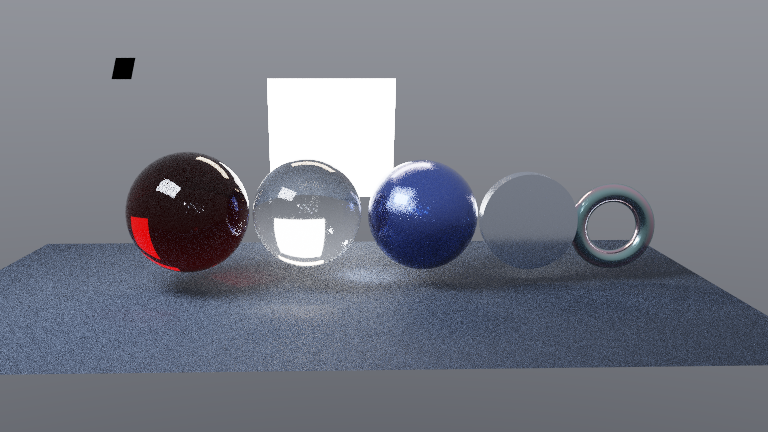
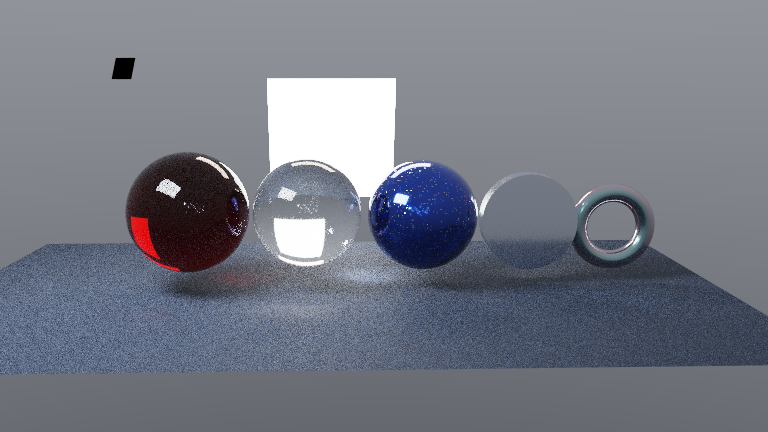
M6b: the automotive preview runs the lattice too - one flake model, repo-wide
The preview is where the flake rule was first proven, and it was STILL
running AutomotiveFlakeSignal after the engine moved on: the paint read
as speckle NOISE, not flakes - the user's original complaint, alive in
the very exhibit they were testing with. There were two flake models in
the repository, which is exactly what AutomotiveMaterialProfiles.slang
exists to prevent.

AutomotiveApplyTriCoatFlakes and the ShaderballPreview hook now call the
SAME SlateFlakeSample / SlateFlakeNormal the kernel and the CPU mirror
call. `density` keeps its meaning (cell coverage), `scale` becomes the
lattice frequency in cells/m, and the two authored properties arrive as
new arguments (flakeSize, colourSpread). The flop term is untouched - it
is a property of the paint, not of the flakes. The chip REPLACES the
basecoat (the same correction the kernel took).

Two numbers that had to be measured against THIS scene, not inherited:
- frequency: the paint ball is r = 1.38 m, 5x a showcase sphere, so the
  showcase's 70-190 cells/m puts 0.4 px on a chip and renders as salt
  again. 34 cells/m is ~94 chips across, ~1.8 px each.
- coverage: 0.34, not the showcase row's 0.78. At high coverage every
  cell fires and a regular lattice reads as a woven GRID; sparsity is
  what makes a lattice look random. Both were caught by rendering, and
  both are recorded at the call site.

Scope is proven by the kept sheets' hashes: of the six, only the three
[…]

Changed region(s): [[0.4375, 0.3611, 0.625, 0.5718]]

diff --git a/Engine/ContentInterchange/ShaderballPreview.cpp b/Engine/ContentInterchange/ShaderballPreview.cpp
@@ -652,10 +652,19 @@ vec3 Radiance(vec3 O, vec3 D, Rng& R, float SpectralWavelengthNm = 0.0f)
             m = AutomotiveApplyTireUvDetail(m, Uv);
             Ns = AutomotiveUvFrameNormal(Ns, Uv, 1.0f, 0.055f);
         }
-        // The standalone paint preview uses the same shared procedural fallback as its material record: flakes are
-        // microfacets under the coat, so their bounded normal variation is applied before the shading frame is built.
+        // M6b: the paint preview runs the SHARED FLAKE LATTICE (SlateFlakeNormal), the same body the kernel and the
+        // CPU mirror run — flakes are microfacets under the coat, so the facet is applied before the frame is built.
+        // ⚠ The frequency is sized to THIS scene's geometry, which is the whole lesson of M6b. The paint ball is
+        // r = 1.38 m (5x a showcase sphere), so the showcase's 70-190 cells/m would put 0.4 px on a chip and render
+        // as salt again - the exact fault this work set out to fix. 34 cells/m is ~94 chips across the ball, ~1.8 px
+        // each in the kept sheet: a flake you can actually see. Coverage is 0.34, NOT the showcase row's 0.78: at
+        // high coverage every cell fires and a regular lattice reads as a woven GRID rather than scattered flake -
+        // sparsity is what makes a lattice look random. (Measured by eye on the kept sheet, both arms.)
         if (m.Metalness > 0.8f && m.CoatWeight > 0.0f)
-            Ns = AutomotiveApplyTriCoatFlakeNormal(Ns, P, 0.38f, 24.0f, 0.37f);
+        {
+            const float FlakeMask = SlateFlakeSample(P, 34.0f, 0.34f, 0.30f, 0.85f).x;
+            Ns = SlateFlakeNormal(Ns, P, 34.0f, FlakeMask, 0.30f);
+        }
 #endif
         if (dot(Ns, D) > 0.0f) Ns = -Ns;
         vec3 Tt, Bt;
@@ -666,7 +675,8 @@ vec3 Radiance(vec3 O, vec3 D, Rng& R, float SpectralWavelengthNm = 0.0f)
         // isolated from the ordinary shaderball exhibit and Project-Zero; the material math itself lives in the
         // included AutomotiveMaterialProfiles.slang, which is also visible to the GPU Slang evaluator.
         if (m.Metalness > 0.8f && m.CoatWeight > 0.0f)
-            m = AutomotiveApplyTriCoatFlakes(m, P, Ns, -D, vec3(0.025f, 0.14f, 0.72f), 0.38f, 24.0f, 0.37f);
+            m = AutomotiveApplyTriCoatFlakes(m, P, Ns, -D, vec3(0.025f, 0.14f, 0.72f),
+                                             0.34f, 34.0f, 0.37f, 0.30f, 0.85f);   // M6b: coverage, cells/m, jitter, size, pigment spread
 #endif
         bool solidHit = g_SolidBall && m.TransmissionWeight > 0.0f;
         bool fromInside = Inside && T.Mat == EntryMat;
